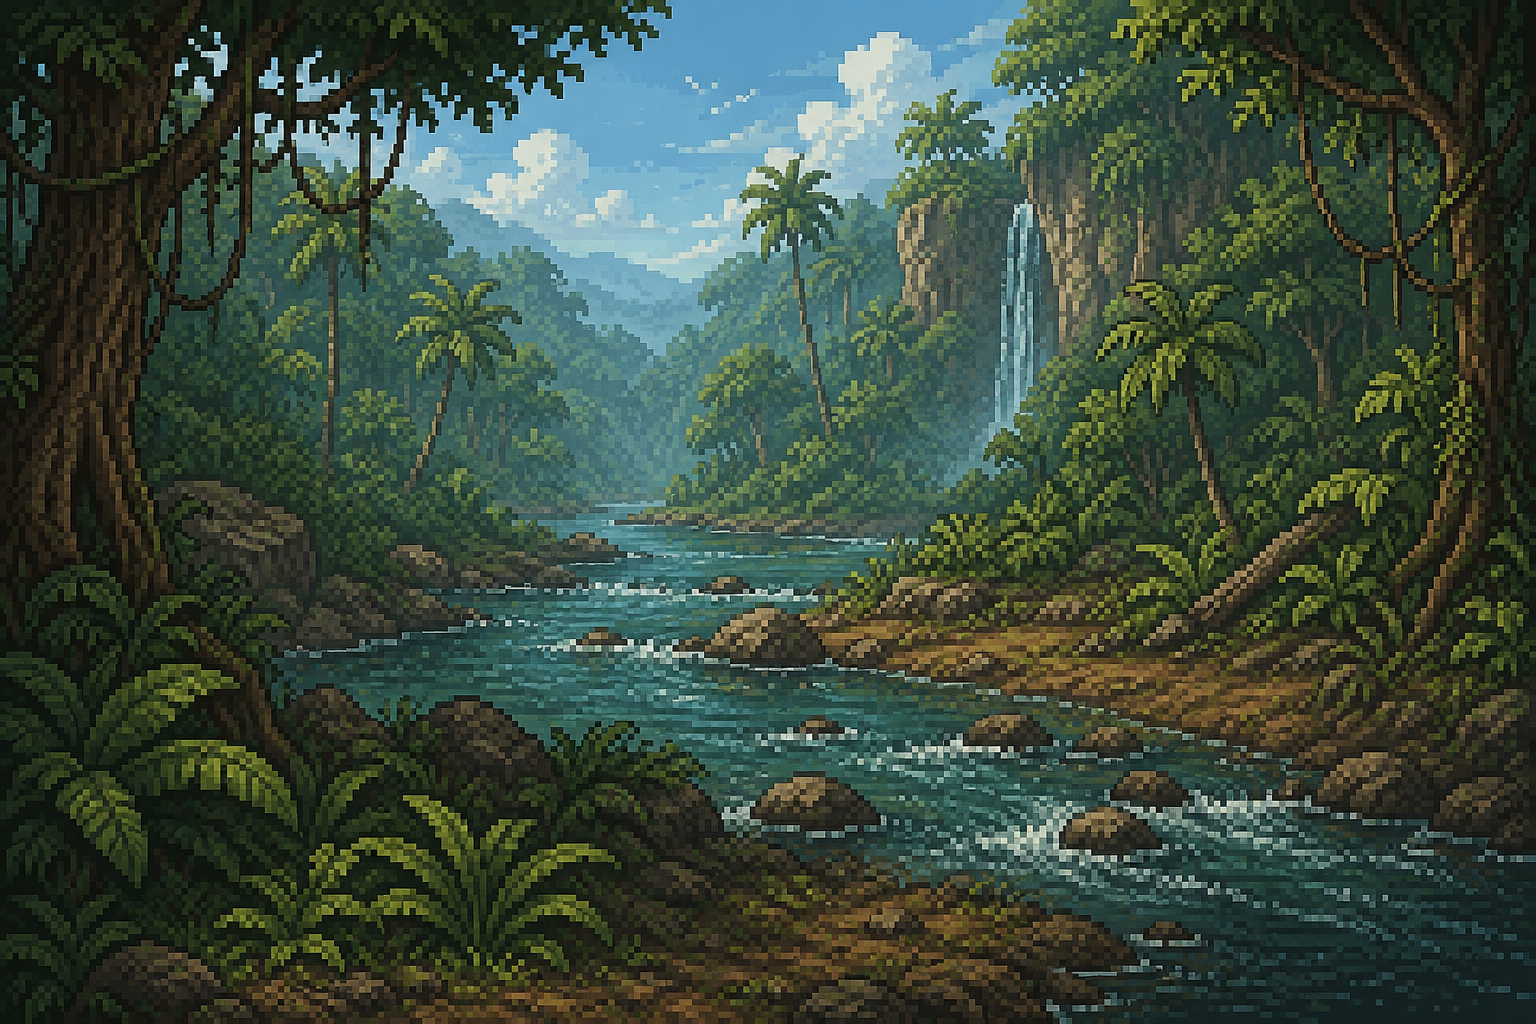
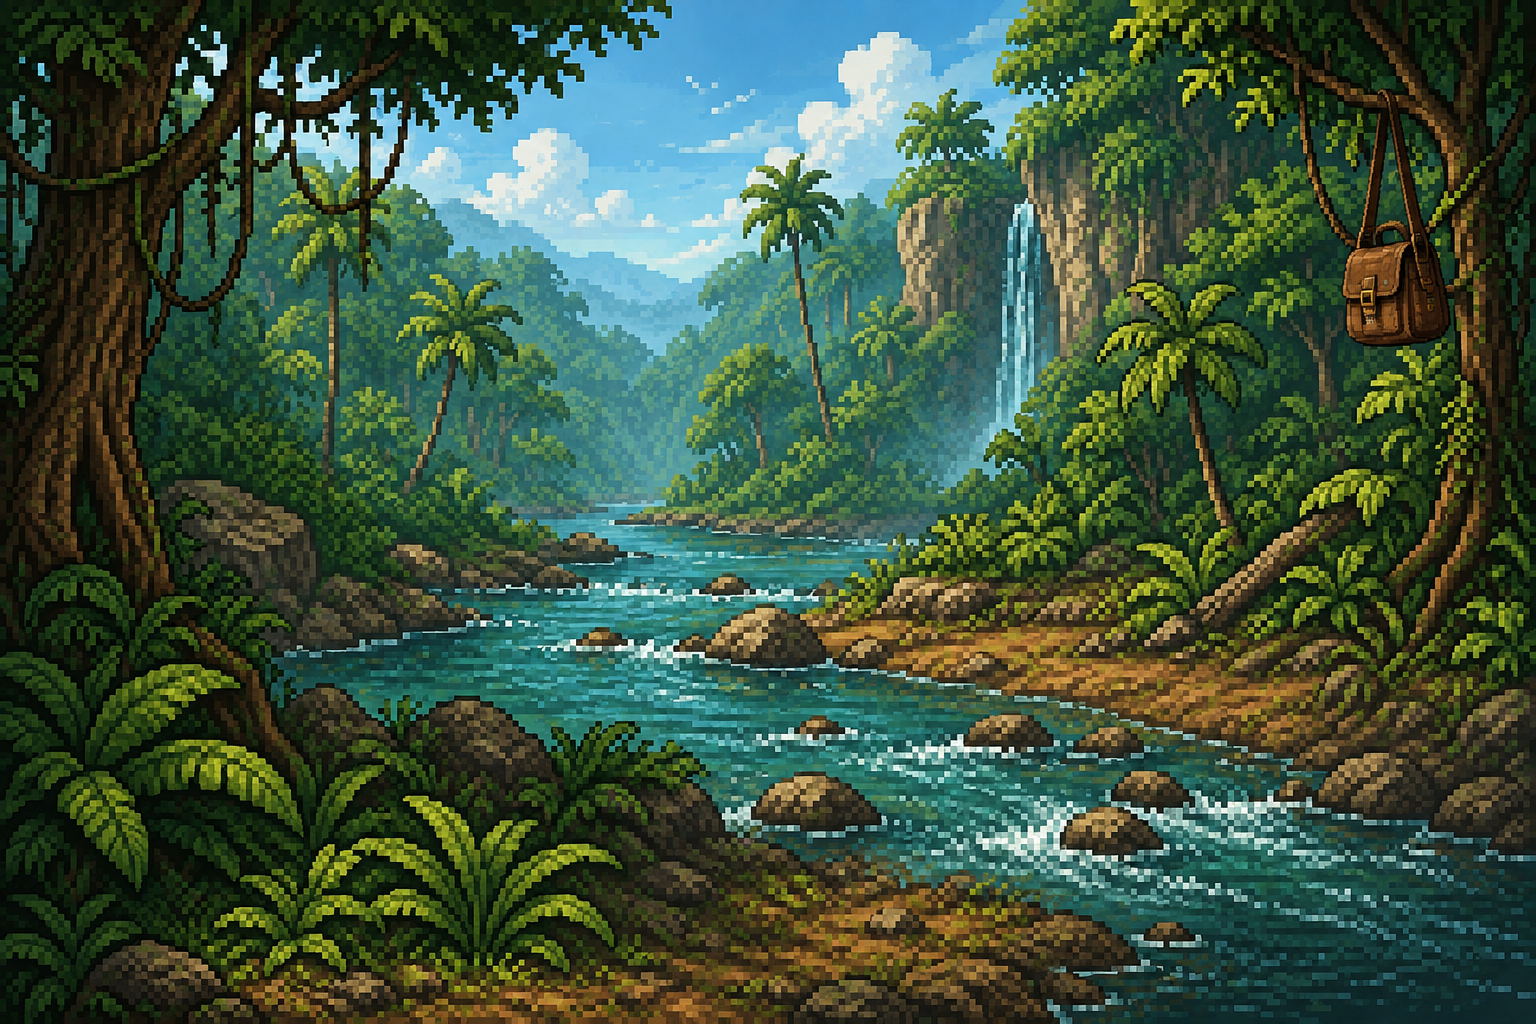
Atto 3 concluso

diff --git a/gioco/src/main/java/game/gui/GamePanel.java b/gioco/src/main/java/game/gui/GamePanel.java
@@ -142,16 +142,16 @@ public class GamePanel extends BasePanel {
         ));
         HOTSPOT_PER_ZONA.put("giungla", List.of(
                 new Hotspot("int_giungla_fiume", 770, 780, 340, 220),
-                new Hotspot("int_giungla_combattente_bastone_fiume", 280, 650, 260, 200),
+                new Hotspot("int_giungla_combattente_bastone_fiume", 1300, 300, 220, 160),
                 new Hotspot("int_giungla_sentiero_foglianti", 768, 150, 260, 180),
-                new Hotspot("int_giungla_capo_villaggio", 1300, 300, 220, 160)
+                new Hotspot("int_giungla_capo_villaggio", 280, 650, 260, 200)
         ));
         HOTSPOT_PER_ZONA.put("miniera", List.of(
                 new Hotspot("int_miniera_tunnel", 300, 500, 180, 180),
-                new Hotspot("int_miniera_sassi", 160, 700, 220, 220),
-                new Hotspot("int_miniera_bastone_spezzato", 140, 950, 200, 140),
-                new Hotspot("int_miniera_calzino", 480, 830, 180, 160),
-                new Hotspot("int_miniera_macchinari", 1250, 550, 180, 180),
+                new Hotspot("int_miniera_sassi", 225, 915, 130, 100),
+                new Hotspot("int_miniera_bastone_spezzato", 95, 930, 160, 110),
+                new Hotspot("int_miniera_calzino", 615, 955, 130, 100),
+                new Hotspot("int_miniera_macchinari", 1400, 140, 180, 160),
                 new Hotspot("int_miniera_uscita_vulcano", 768, 130, 220, 160)
         ));
         HOTSPOT_PER_ZONA.put("vulcano", List.of(
@@ -1372,11 +1372,11 @@ public class GamePanel extends BasePanel {
     * (es. hotspot non quadrati), dove il ridimensionamento automatico di
     * GestoreComponenti farebbe un "cover crop" indesiderato.
     */
-    private ImageIcon creaIconaFrecciaRuotata(String direzione, int dimensione) {
-        Image base = creaIconaFrecciaRuotata(direzione).getImage();
-        Image scalata = base.getScaledInstance(dimensione, dimensione, Image.SCALE_SMOOTH);
-        return new ImageIcon(scalata);
-    }
+   private ImageIcon creaIconaFrecciaRuotata(String direzione, int dimensione) {
+       Image base = creaIconaFrecciaRuotata(direzione).getImage();
+       Image scalata = base.getScaledInstance(dimensione, dimensione, Image.SCALE_SMOOTH);
+       return new ImageIcon(scalata);
+   }
     
     private void creaFrecceMovimento(String idZona) {
     rimuoviFrecceMovimento();
@@ -1495,8 +1495,8 @@ public class GamePanel extends BasePanel {
     private void ricreaHotspot(String idZona) {
         rimuoviHotspotAttuali();
 
-        // TODO TEST: commenta questa riga (o mettila a false) per tornare agli hotspot invisibili
-        boolean debugHotspotVisibili = true;
+        // TODO TEST: rimetti a true (o scommenta) per rendere di nuovo visibili gli hotspot di debug
+        boolean debugHotspotVisibili = false;
 
         List<Hotspot> hotspot = HOTSPOT_PER_ZONA.getOrDefault(idZona, List.of());
         for (Hotspot h : hotspot) {

diff --git a/gioco/src/main/java/game/manager/GameManager.java b/gioco/src/main/java/game/manager/GameManager.java
@@ -264,7 +264,7 @@ public class GameManager extends BaseGameManager implements Startable, GameObser
     public void start() {
         // Carica il primo atto
         inventarioManager.aggiungiOggettoDaId("o2");
-        cambiaScena("a3");
+        cambiaScena("a2");
         isRunning = true;
     }
 
